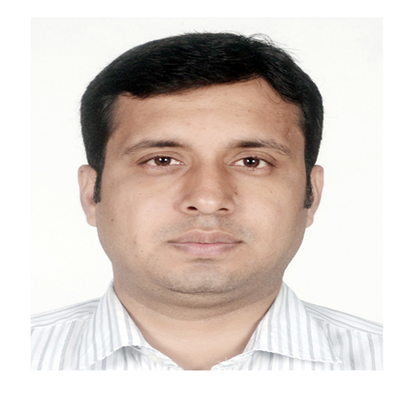
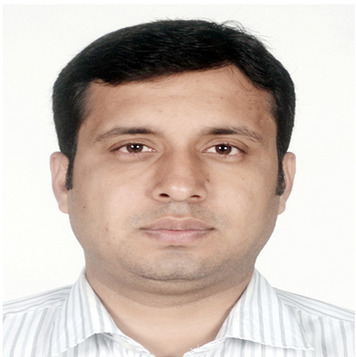
✨ Enhance faculty filter button styles for improved accessibility and visual feedback

diff --git a/client/src/Views/People-Section/Faculty/Faculty.css b/client/src/Views/People-Section/Faculty/Faculty.css
@@ -64,6 +64,30 @@
         inset 0 -1px 0 rgba(0, 0, 0, 0.1);
     position: relative;
     overflow: hidden;
+    outline: none;
+}
+
+.faculty-filter-btn {
+    outline: none !important;
+    -webkit-tap-highlight-color: transparent !important;
+}
+
+.faculty-filter-btn:focus {
+    outline: none !important;
+    box-shadow: none !important;
+}
+
+.faculty-filter-btn:focus-visible {
+    outline: none !important;
+    box-shadow: none !important;
+}
+
+.faculty-filter-btn:active {
+    outline: none !important;
+    box-shadow: 
+        0 8px 32px rgba(31, 38, 135, 0.15),
+        inset 0 1px 0 rgba(255, 255, 255, 0.4),
+        inset 0 -1px 0 rgba(0, 0, 0, 0.1) !important;
 }
 
 .faculty-filter-btn::before {
@@ -292,7 +316,7 @@
 .faculty-image img {
     width: 100%;
     height: 100%;
-    object-fit: cover;
+    object-fit: fill;
 }
 
 .faculty-info {
@@ -333,7 +357,7 @@
     font-size: 13px;
     color: #666;
     margin-bottom: 15px;
-    font-style: italic;
+    font-style: normal;
     overflow: hidden;
     display: -webkit-box;
     -webkit-line-clamp: 2;
@@ -592,7 +616,7 @@
     .faculty-image img {
         width: 100%;
         height: 100%;
-        object-fit: cover;
+        object-fit: fill;
     }
     
     .faculty-name {
@@ -661,7 +685,7 @@
     .faculty-image img {
         width: 100%;
         height: 100%;
-        object-fit: cover;
+        object-fit: fill;
     }
     
     .faculty-name {
@@ -719,6 +743,26 @@
         0 8px 32px rgba(0, 0, 0, 0.4),
         inset 0 1px 0 rgba(255, 255, 255, 0.08),
         inset 0 -1px 0 rgba(0, 0, 0, 0.4);
+    outline: none !important;
+    -webkit-tap-highlight-color: transparent !important;
+}
+
+.faculty-page.dark .faculty-filter-btn:focus {
+    outline: none !important;
+    box-shadow: none !important;
+}
+
+.faculty-page.dark .faculty-filter-btn:focus-visible {
+    outline: none !important;
+    box-shadow: none !important;
+}
+
+.faculty-page.dark .faculty-filter-btn:active {
+    outline: none !important;
+    box-shadow: 
+        0 8px 32px rgba(0, 0, 0, 0.4),
+        inset 0 1px 0 rgba(255, 255, 255, 0.08),
+        inset 0 -1px 0 rgba(0, 0, 0, 0.4) !important;
 }
 
 .faculty-page.dark .faculty-filter-btn:hover {

diff --git a/client/src/Views/Admin/AdminDashboard.css b/client/src/Views/Admin/AdminDashboard.css
@@ -425,11 +425,11 @@
   transform: translateY(-3px);
 }
 
-.faculty-info h3 {
+/* .faculty-info h3 {
   color: #333;
   margin-bottom: 15px;
   font-size: 1.3rem;
-}
+} */
 
 .faculty-info p {
   margin: 8px 0;
